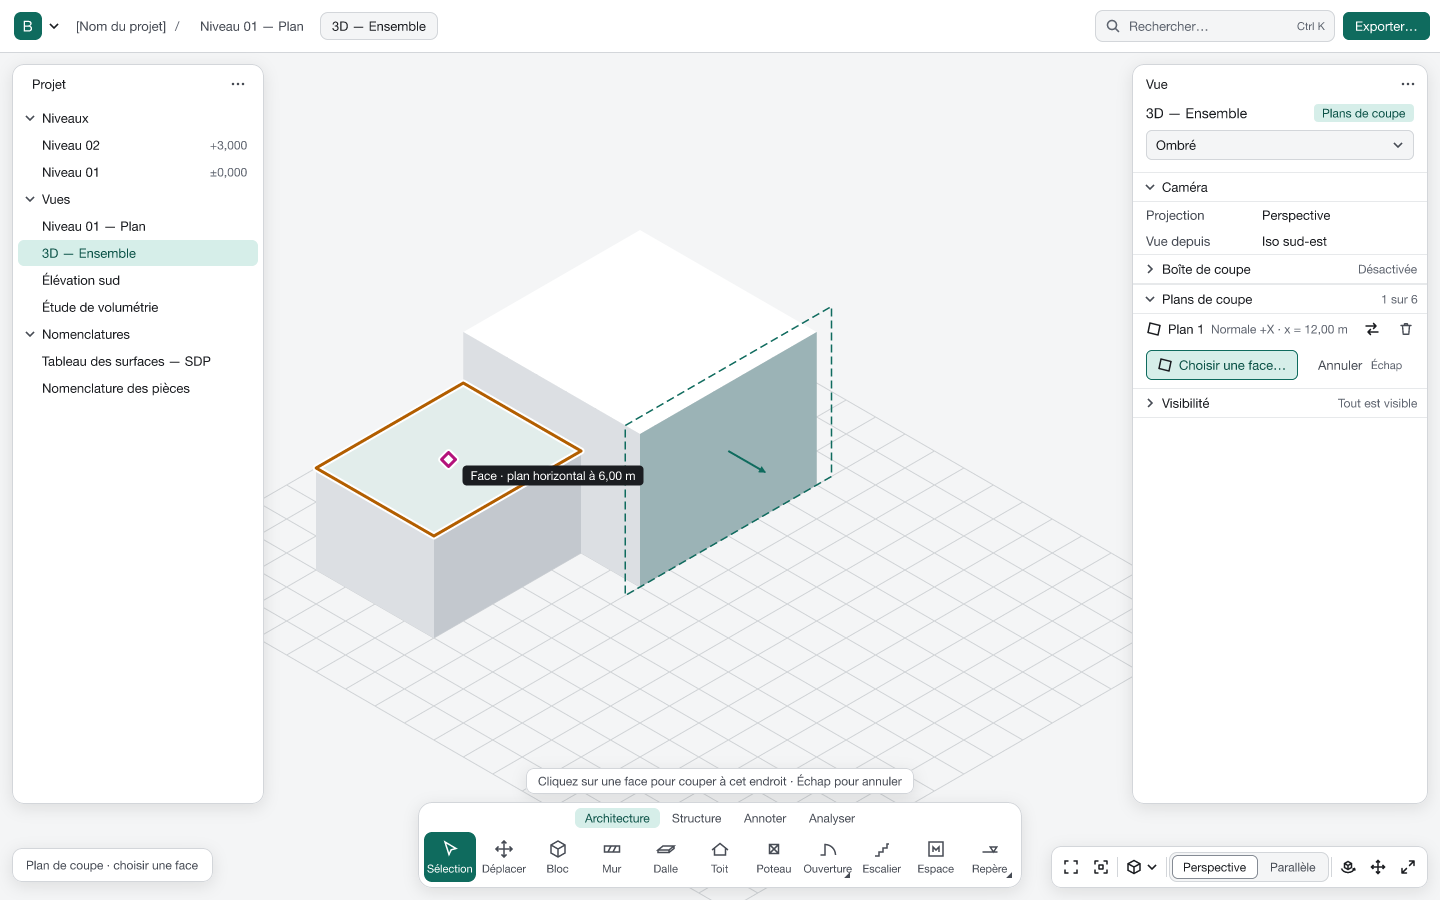
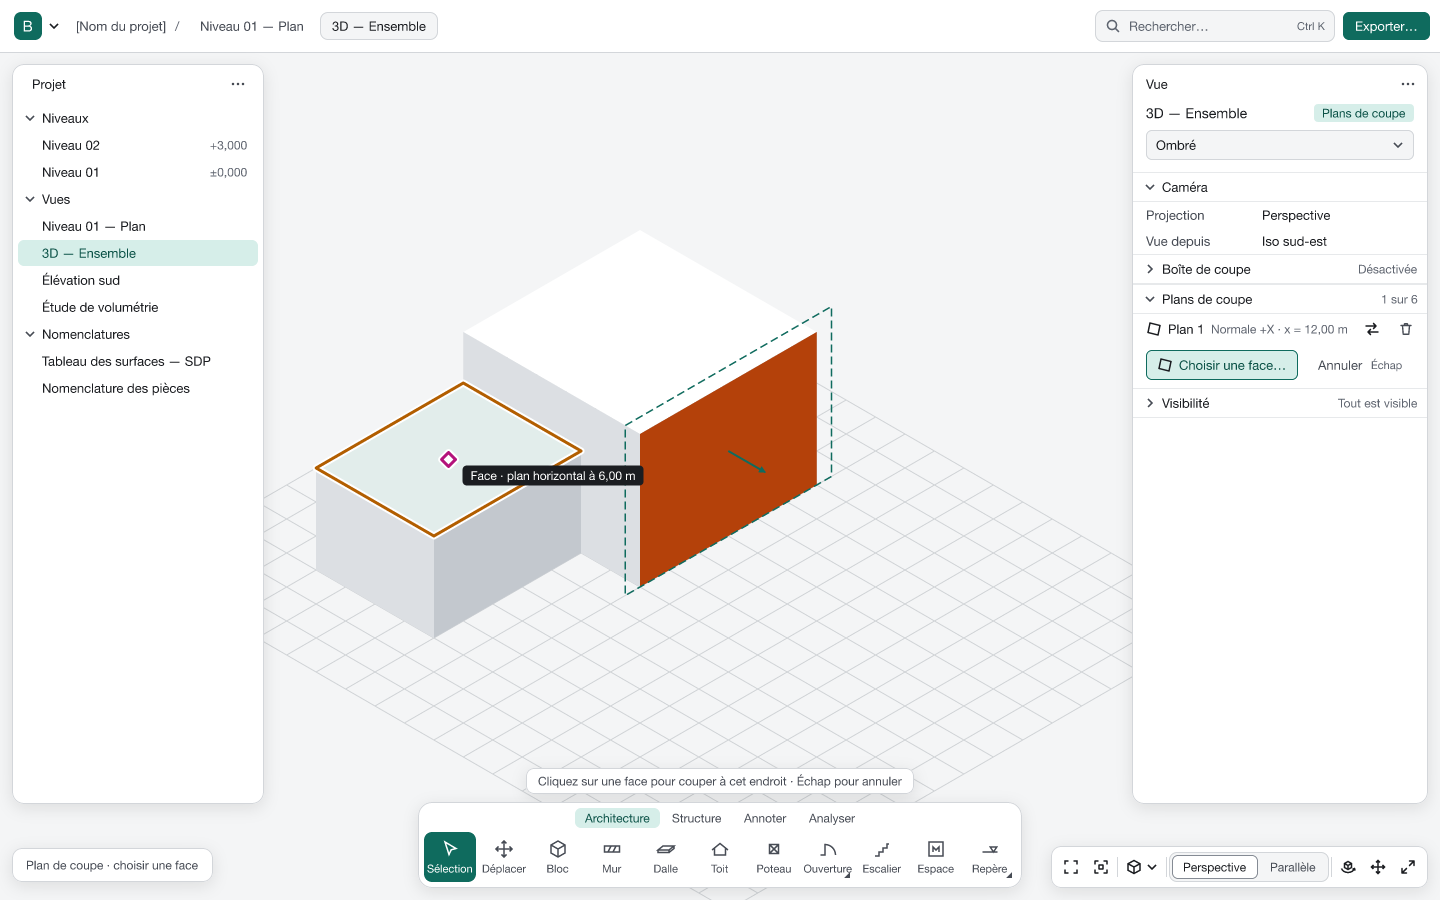
docs(design): apply lead decisions to the viewport boards and README (VP-01, VP-02, VP-03, Refs #67)
Give vp-cut a solid warm fill (#B4410A light, #FDBA74 dark, at least
3.4:1 on every model shade) so cut faces no longer read as selected;
3.1's cut face now uses it. Disable the tool bar in 3.27c and 3.27d.
Re-export 3.1, 3.25a/b, 3.26, 3.27c/d and 3.28. The README gains the
lead's rules that override the boards (metres everywhere, 3.26 as the
panel reference, no last frame on device lost, Zoom fit disabled on an
empty scene, no hint over the typed field, no snapping to moved
elements, one pick-button label, Home/End and arrows in the popover
footer, no tools without a 3D view).

Changed region(s): [[0.4375, 0.3733, 0.5938, 0.6533]]

diff --git a/.orchestrator/features/epic-3d-viewport/design/README.md b/.orchestrator/features/epic-3d-viewport/design/README.md
@@ -23,13 +23,13 @@ Each board is exported twice: `<file>-light.png` and `<file>-dark.png`.
 | 3.24a | 4 Move | Move tool: base point → target point, rubber band, origin ghost, typed field "Distance 2,5 m ↵", live chip "2,500 m" | `3.24a-move-tool-typed` |
 | 3.24b | 4 Move | Direct drag with Select: **Milieu** (midpoint) snap marker and chip, origin ghost, live distance "4,000 m" | `3.24b-move-drag-snap` |
 | 3.24c | 4 Move | Result: toast with undo "1 élément déplacé de 2,500 m · Annuler" | `3.24c-move-done-undo` |
-| 3.25a | 5 Clipping planes | Pick mode: hint "Cliquez sur une face pour couper à cet endroit · Échap pour annuler", face preview with **Face** marker, pressed "Choisir une face…" button, plane 1 already cutting (tinted cut face, dashed plane outline, arrow showing the normal) | `3.25a-clip-plane-pick` |
-| 3.25b | 5 Clipping planes | Two planes in the View panel ("2 sur 6"), one row per plane (Flip, Remove), keyboard focus on Plan 2, "Ajouter sur une face…", "Tout supprimer" | `3.25b-clip-planes-panel` |
+| 3.25a | 5 Clipping planes | Pick mode: hint "Cliquez sur une face pour couper à cet endroit · Échap pour annuler", face preview with **Face** marker, pressed pick button (label superseded by rule 7), plane 1 already cutting (tinted cut face, dashed plane outline, arrow showing the normal) | `3.25a-clip-plane-pick` |
+| 3.25b | 5 Clipping planes | Two planes in the View panel ("2 sur 6"), one row per plane (Flip, Remove), keyboard focus on Plan 2, "Ajouter un plan sur une face", "Tout supprimer" | `3.25b-clip-planes-panel` |
 | 3.26 | 6 Section box and visibility | Section box with handles (+X moved, value chip), **Min/Max fields** in the View panel (Max X focused, Min Z in error: "Le minimum doit être inférieur au maximum"), visibility popover operable from the keyboard (focused row, tablist, shortcut footer) | `3.26-section-box-visibility-keyboard` |
 | 3.27a | 7 States | Empty project: grid, axes, "Rien à afficher pour l’instant", "Placer un bloc B", link to the guide | `3.27a-state-empty` |
 | 3.27b | 7 States | Loading, slow (after 10 s): spinner, "Toujours en cours…", indeterminate bar, "Annuler", controls disabled | `3.27b-state-loading` |
-| 3.27c | 7 States | No WebGPU: plain-language card with only "Ouvrir le guide de dépannage" (no plan view, section or schedule mentioned) | `3.27c-state-no-webgpu` |
-| 3.27d | 7 States | Device lost: alert card, "Recharger la vue" (focused), "Copier les détails", and the second-failure line "Si le problème persiste, redémarrez BIMCraft." | `3.27d-state-device-lost` |
+| 3.27c | 7 States | No WebGPU: plain-language card with only "Ouvrir le guide de dépannage" (no plan view, section or schedule mentioned); tool bar disabled | `3.27c-state-no-webgpu` |
+| 3.27d | 7 States | Device lost: alert card, "Recharger la vue" (focused), "Copier les détails", and the second-failure line "Si le problème persiste, redémarrez BIMCraft."; tool bar disabled | `3.27d-state-device-lost` |
 | 3.28 | All (spec) | Overlay spec: the 5 snap markers on light, dark, dark-material and saturated backgrounds; selection, hover, ghost and cut samples; chips; typed field; every toast (move refused, move without selection, planes cleared with no Undo, 6-plane limit); swatches of the viewport tokens | `3.28-overlays-tokens` |
 | 3.1 (amended) | 6 Section box | See [Changes to 3.1 and 3.2](#changes-to-31-and-32) | `3.1-section-box-amended` |
 | 3.2 (amended) | 6 Visibility | See [Changes to 3.1 and 3.2](#changes-to-31-and-32) | `3.2-visibility-isolate-amended` |
@@ -51,7 +51,7 @@ They are in the `Mode` collection, so each one has a Light and a Dark value. The
 | `color/vp-halo` | `--color-vp-halo` | `#FFFFFF` | `#0B0C0E` | Halo under every overlay line and marker (7 px under a 3 px line) and marker fill |
 | `color/vp-ghost` | `--color-vp-ghost` | `#5C6470` | `#9AA3AE` | Dashed preview outline (1.5 px, dashes 6/4), origin ghost while moving |
 | `color/vp-ghost-tint` | `--color-vp-ghost-tint` | `#0F6B5E` at 12 % | `#4DB6A3` at 15 % | Fill of the preview ghost and of the footprint |
-| `color/vp-cut` | `--color-vp-cut` | `#0F6B5E` at 22 % | `#4DB6A3` at 28 % | Tint of cut faces (section box and clipping planes) |
+| `color/vp-cut` | `--color-vp-cut` | `#B4410A` | `#FDBA74` | Solid fill of cut faces (section box and clipping planes); a warm hue so a cut face never reads as selected |
 | `color/vp-chip` | `--color-vp-chip` | `#1B1D21` | `#E6E7E9` | Background of snap-label, live-size and hover-name chips |
 | `color/vp-chip-ink` | `--color-vp-chip-ink` | `#FFFFFF` | `#1B1D21` | Chip text (12 px, Medium) |
 
@@ -66,6 +66,7 @@ The ground grid uses the existing `color/grid` variable at 45 % opacity. The can
 | Snap marker on halo | 6.3:1 | 8.3:1 |
 | Ghost line on halo | 6.0:1 | 7.7:1 |
 | Chip text on chip | 16.9:1 | 13.6:1 |
+| Cut fill on the closest model shade | 3.4:1 (`vp-shade-3`) | 4.9:1 (`vp-shade-1`) |
 
 Every line and marker sits on its halo, so it keeps at least 4.7:1 against its adjacent colour (target 3:1, SC 1.4.11) whatever the model colour. Board 3.28 shows this on a dark material (`#2B2F35`) and a saturated one (`#C2410C`). Meaning never depends on colour alone: snap markers differ by shape (endpoint = square, midpoint = triangle, edge = short line, face = diamond, ground = cross), and every marker has a label chip.
 
@@ -79,7 +80,7 @@ Every line and marker sits on its halo, so it keeps at least 4.7:1 against its a
 | `Icons / UI / Full screen` | 16 | View controls |
 | `Icons / UI / View presets` | 16 | View presets menu button |
 | `Icons / UI / Flip` | 16 | Flip a clipping plane |
-| `Icons / UI / Clip plane` | 16 | Clipping-plane rows, "Ajouter sur une face…" |
+| `Icons / UI / Clip plane` | 16 | Clipping-plane rows, "Ajouter un plan sur une face" |
 | `Icons / UI / Warning` | 16 | No-WebGPU card |
 | `Icons / UI / Snap` | 16 | Snapping state (for the status bar and the future command palette) |
 
@@ -90,27 +91,28 @@ The boards reuse the existing Brand guide components: `UI / Toast with undo`, `U
 3.1 (section box), light and dark:
 
 1. "Shaded with edges" → **"Shaded"** (spec, Out of scope: no edges in this feature).
-2. The "Extent X/Y/Z" rows are replaced by **Min/Max numeric fields** (X, Y, Z, in mm), the typed equivalent of each handle drag. Max X has focus, and the help line reads "Enter applies · Esc restores · min must be below max".
+2. The "Extent X/Y/Z" rows are replaced by **Min/Max numeric fields** (X, Y, Z; the board shows mm, superseded by rule 1: metres), the typed equivalent of each handle drag. Max X has focus, and the help line reads "Enter applies · Esc restores · min must be below max".
 3. Hint toast → "Section box · drag a handle or type values in the View panel · Shift for 100 mm steps".
 4. Tool bar: **Move** and **Block** added right after Select (see the decisions below).
 5. View controls: the new cluster replaces the old one (see the decisions below).
+6. The cut face takes `vp-cut` (it used `acc-tint`, the selection colour).
 
 3.2 (visibility and isolate), light and dark:
 
 1. "Shaded with edges" → **"Shaded"**.
-2. Popover: the **Columns** row has the keyboard focus ring (roving tabindex), and a footer gives the keys: "↑ ↓ move · Space hide · Shift+Space isolate · Esc close".
+2. Popover: the **Columns** row has the keyboard focus ring (roving tabindex), and a footer gives the keys (full list in rule 8).
 3. Tool bar: **Move** and **Block** added after Select.
 4. View controls: new cluster.
 
 ## UI decisions beyond the UX notes
 
 - **Move tool in the tool bar.** UX gives Move a shortcut (`M`) but no place. Select, Move and Block now open the tool bar, followed by the Architecture tools (Wall, Slab…). UX asked for Block right after Select; it now comes right after Move, still before Wall, and Move sits with Select because both apply in every discipline. Block is therefore outside the Architecture group.
-- **View-controls cluster** (bottom right), left to right: Zoom fit `F`, Zoom to selection `Shift+F`, View presets ▾ (icon only, tooltip and `aria-label` "Vues prédéfinies"), Perspective | Parallèle segmented toggle `P`, Orbit, Pan, Full screen. The old "1:100" scale is gone, because a perspective 3D view has no drawing scale. Zoom to selection is shown disabled (40 % opacity) when nothing is selected (3.27a).
+- **View-controls cluster** (bottom right), left to right: Zoom fit `F`, Zoom to selection `Shift+F`, View presets ▾ (icon only, tooltip and `aria-label` "Vues prédéfinies"), Perspective | Parallèle segmented toggle `P`, Orbit, Pan, Full screen. The old "1:100" scale is gone, because a perspective 3D view has no drawing scale. Zoom fit and Zoom to selection are disabled on an empty scene (3.27a, see rule 4).
 - **View panel order:** Caméra (Projection, Vue depuis), Boîte de coupe, Plans de coupe, Visibilité. A collapsed section shows its state on the right ("Désactivée", "Aucun", "2 sur 6", "Tout est visible"), and the title tag names the active cut ("Boîte de coupe active", "Plans de coupe").
 - **Hover name chip:** the hovered element's name is shown next to the pointer (3.22), in the chip style. The screen reader still doesn't hear hover (UX).
-- **Clipping planes on the canvas:** each plane is drawn as a dashed outline in `vp-select`, with an arrow showing its normal; the face it cuts takes the `vp-cut` tint. The Flip and Remove buttons are icon-only and labelled "Inverser" and "Supprimer".
+- **Clipping planes on the canvas:** each plane is drawn as a dashed outline in `vp-select`, with an arrow showing its normal; the face it cuts takes the `vp-cut` fill. The Flip and Remove buttons are icon-only and labelled "Inverser" and "Supprimer".
 - **Loading:** the spinner stops spinning when `prefers-reduced-motion` is set (the text and the bar remain). The model behind it is dimmed to 20 %.
-- **Device lost:** the last frame stays behind, dimmed to 20 %; the card has `role="alert"` and focus moves to "Recharger la vue".
+- **Device lost:** no last frame is kept (rule 3); the card has `role="alert"` and focus moves to "Recharger la vue".
 
 ## French strings added by the UI boards
 
@@ -129,10 +131,10 @@ The boards reuse the existing Brand guide components: `UI / Toast with undo`, `U
 | | Block · move the pointer up or type the height, Enter (3.00 m by default) · Esc: previous step | Bloc · déplacez le pointeur vers le haut ou saisissez la hauteur, Entrée (3,00 m par défaut) · Échap : étape précédente |
 | Move hints | Move · click the target point or type a distance, Enter · Alt: no snapping · Esc: cancel | Déplacer · cliquez le point d’arrivée ou saisissez une distance, Entrée · Alt : sans accroche · Échap : annuler |
 | | Drag to move · hold Alt: no snapping · Esc: cancel | Glisser pour déplacer · Alt maintenu : sans accroche · Échap : annuler |
-| Clip planes panel | Clipping planes · Plane 1 · Normal +X · Choose a face… · Add on a face… · Clear all · 2 of 6 | Plans de coupe · Plan 1 · Normale +X · Choisir une face… · Ajouter sur une face… · Tout supprimer · 2 sur 6 |
+| Clip planes panel | Clipping planes · Plane 1 · Normal +X · Add plane on face · Clear all · 2 of 6 | Plans de coupe · Plan 1 · Normale +X · Ajouter un plan sur une face · Tout supprimer · 2 sur 6 |
 | Section box panel | Active · Cut faces · Tinted · Fit to selection · Reset · Turn off | Active · Faces coupées · Teintées · Ajuster à la sélection · Réinitialiser · Désactiver |
 | Section box help | Metres · Enter applies · Esc restores · Tab: next field | Mètres · Entrée applique · Échap rétablit · Tab : champ suivant |
-| Popover footer | ↑ ↓ move · Space hide · Shift+Space isolate · Esc close | ↑ ↓ parcourir · Espace masquer · Maj+Espace isoler · Échap fermer |
+| Popover footer | ↑ ↓ Home End move · ← → tabs · Space hide · Shift+Space isolate · Esc close | ↑ ↓ Home End parcourir · ← → onglets · Espace masquer · Maj+Espace isoler · Échap fermer |
 | Popover tags | Isolated · Hidden | Isolé · Masqué |
 | Status bar | No selection | Aucune sélection |
 | | No elements | Aucun élément |
@@ -154,9 +156,23 @@ The boards reuse the existing Brand guide components: `UI / Toast with undo`, `U
 | View panel title tags | Section box on · Clipping planes · Isolated | Boîte de coupe active · Plans de coupe · Isolé |
 | View panel collapsed states | Off · None · {n} of 6 · Everything visible | Désactivée · Aucun · {n} sur 6 · Tout est visible |
 
+## Rules for the frontend (lead decisions; they override the boards)
+
+1. **Units.** The viewport UI shows metres everywhere, with 3 decimals and the locale decimal separator, including the section-box Min/Max fields. The mm values in 3.1 are superseded.
+2. **Reference board.** 3.26 is the reference for the View panel layout and the projection label. 3.1 (amended) only illustrates the section box itself.
+3. **Device lost (3.27d).** No dimmed last frame: the canvas shows only the background and grid behind the card.
+4. **Empty scene (3.27a).** Zoom fit (`F`) is disabled (`aria-disabled`), like Zoom to selection; this supersedes the UX note.
+5. **Typed fields (3.24a).** The hint bar never covers the typed Distance field: lay the field out above or beside the hint.
+6. **Snapping while moving (3.24b).** The snap target on the board is illustrative. The viewport never snaps to the elements being moved.
+7. **Pick button (3.25a).** One label in both states, "Ajouter un plan sur une face" / "Add plane on face"; the pressed state is `aria-pressed="true"` plus the pressed styling. The board's "Choisir une face…" label is superseded.
+8. **Popover keys (3.26).** The footer also lists Home/End and ←/→ for the tabs: "↑ ↓ Home End parcourir · ← → onglets · Espace masquer · Maj+Espace isoler · Échap fermer" / "↑ ↓ Home End move · ← → tabs · Space hide · Shift+Space isolate · Esc close".
+9. **Tool bar without a 3D view.** No modelling tools without a viewport: the tool bar is disabled while loading, with no WebGPU, and after the device is lost (3.27b–d).
+
+`typos` flags the French text in this folder when pointed at it directly; that is accepted (CI skips `.orchestrator/`).
+
 ## Open points for the frontend (not blocking)
 
 - **No keyboard picking** in the MVP (UX gap): keyboard users select from the project tree. Nothing in the canvas shows a keyboard cursor.
 - The status bar shows the snapping state ("Accroche activée", 3.23a, 3.24a, 3.24b) from `view_state.snapping`, which is in `api-contract.md` §2; the `Snap` icon is ready for a status-bar snapping toggle.
-- **`setTheme` carries fewer colours than the boards use.** `ViewportTheme` has six `"#RRGGBB"` fields: `background` ← `vp-bg`, `selection` ← `vp-select`, `hover` ← `vp-hover`, `snap` ← `vp-snap`, `preview` ← `vp-ghost`, `cut` ← `vp-cut`. It has no slot for `vp-shade-1/2/3` (default material, which the dark boards change), `vp-halo`, `vp-select-tint` or `vp-ghost-tint`, and no alpha for the tints (`vp-cut` is a colour at 22 %/28 %). Until the lead extends the contract, the dark boards' material and halo cannot be rendered as drawn.
+- **`setTheme` carries fewer colours than the boards use.** `ViewportTheme` has six `"#RRGGBB"` fields: `background` ← `vp-bg`, `selection` ← `vp-select`, `hover` ← `vp-hover`, `snap` ← `vp-snap`, `preview` ← `vp-ghost`, `cut` ← `vp-cut`. It has no slot for `vp-shade-1/2/3` (default material, which the dark boards change), `vp-halo`, `vp-select-tint` or `vp-ghost-tint`, and no alpha for the tints (`vp-select-tint`, `vp-ghost-tint`; `vp-cut` is now solid). Until the lead extends the contract, the dark boards' material and halo cannot be rendered as drawn.
 - **Block footprint labels.** The contract types three values (width, depth, height); the boards show only the first one ("Longueur") and the height. The second footprint value needs its own label and hint.
